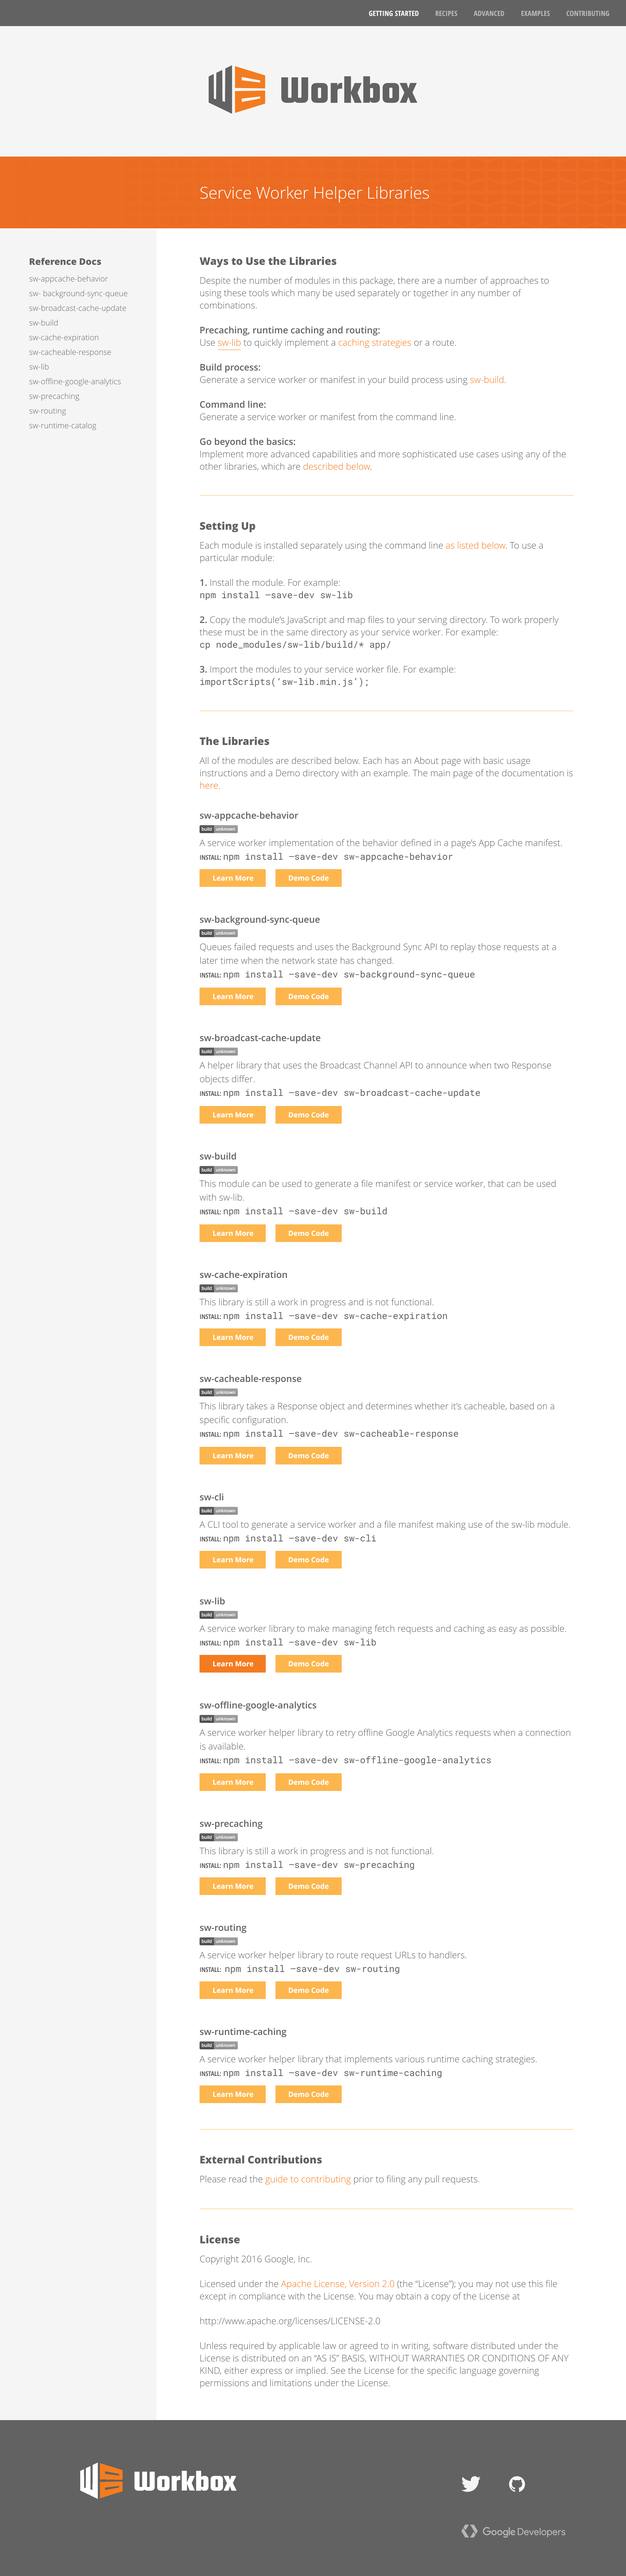
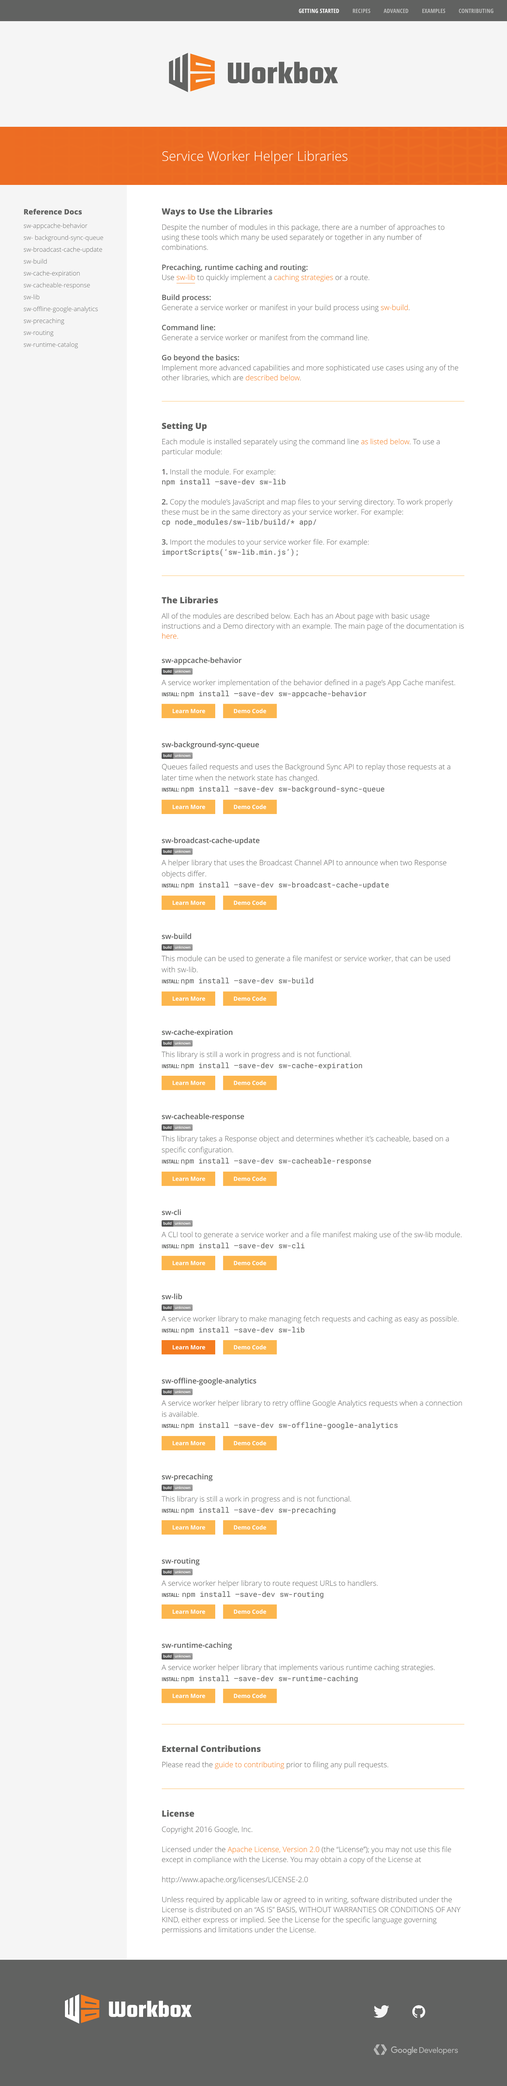
Making a little more mobile friendly

diff --git a/src/examples/index.html b/src/examples/index.html
@@ -16,7 +16,7 @@
   <section class="nav-content">
     <div class="menu-btn-wrapper">
       <button class="svg-btn menu-btn js-menu-btn">
-        <svg height="24" viewBox="0 0 24 24" width="24" xmlns="http://www.w3.org/2000/svg">
+        <svg height="30" viewBox="0 0 24 24" width="30" xmlns="http://www.w3.org/2000/svg">
             <path d="M0 0h24v24H0z" fill="none"/>
             <path d="M3 18h18v-2H3v2zm0-5h18v-2H3v2zm0-7v2h18V6H3z"/>
         </svg>
@@ -98,14 +98,23 @@
   </section>
 
   <footer>
-    <h1 class="footer__workbox-logo">Workbox</h1>
-    <div class="footer__project-logos">
-      <a href="https://github.com/GoogleChrome/sw-helpers" class="svg-btn footer__github-btn" role="button" title="GitHub">
-        <img src="../images/github-logo.min.svg" alt="Github Logo" />
-      </a>
-      <a class="google-dev-logo" href="https://developers.google.com/web/">
-        <img src="../images/google-dev-logo.min.svg" alt="Google Developers Logo" />
-      </a>
+    <a href="https://GoogleChrome.github.io/workbox" class="footer__btn footer__workbox-btn" role="button" title="Workbox">
+      <img src="../images/workbox-logo-white.min.svg" alt="Workbox Logo" />
+    </a>
+    <div class="footer__right-logos">
+      <div class="footer__logo-row">
+        <a href="https://twitter.com/ChromiumDev" class="footer__btn footer__twitter-btn" role="button" title="Twitter">
+          <img src="../images/twitter-logo.min.svg" alt="Twitter Logo" />
+        </a>
+        <a href="https://github.com/GoogleChrome/sw-helpers" class="footer__btn footer__github-btn" role="button" title="GitHub">
+          <img src="../images/github-logo.min.svg" alt="Github Logo" />
+        </a>
+      </div>
+      <div class="footer__logo-row">
+        <a class="google-dev-logo footer__btn" href="https://developers.google.com/web/">
+          <img src="../images/google-dev-logo.min.svg" alt="Google Developers Logo" />
+        </a>
+      </div>
     </div>
   </footer>
 </body>

diff --git a/src/styles/components/navigation.css b/src/styles/components/navigation.css
@@ -3,13 +3,12 @@
   flex-direction: row;
   justify-content: space-between;
   background-color: var(--header-bg);
-  padding: 0 calc(var(--horizontal-spacing) * 5);
 }
 
 .menu-btn {
   background: none;
   border: none;
-  padding: 8px;
+  padding: calc(var(--vertical-spacing) * 2.5);
 }
 
 .menu-btn svg {
@@ -26,6 +25,13 @@
   z-index: var(--z-index-navdrawer);
   will-change: transform;
   transform: translateX(-240px);
+  transition: transform 0.4s ease-in-out;
+}
+
+.nav-content nav.is-open {
+  transform: translateX(0);
+  pointer-events: all;
+  touch-action: none;
 }
 
 .nav-content ul {
@@ -38,7 +44,7 @@
 
 .nav-content a {
   display: block;
-  padding: calc(var(--vertical-spacing) * 3.5) calc(var(--horizontal-spacing) * 2.5);
+  padding: calc(var(--vertical-spacing) * 2.5) calc(var(--horizontal-spacing) * 2);
   text-transform: uppercase;
   font-size: var(--navigation-font-size);
   font-weight: 700;
@@ -46,7 +52,7 @@
   text-decoration: none;
 }
 
-.nav-backdrop.is-visible {
+.nav-backdrop {
   position: fixed;
   width: 100%;
   height: 100%;
@@ -56,15 +62,23 @@
   z-index: var(--z-index-backdrop);
   opacity: 0;
   will-change: opacity;
+  pointer-events: none;
+  transition: opacity 0.4s ease-in-out;
 }
 
-.nav-backdrop.is-visible {
+.nav-backdrop.is-open {
   opacity: 1;
+  pointer-events: all;
+  touch-action: none;
 }
 
 @media (min-width: 700px) {
   .menu-btn {
     display: none;
+  }
+
+  .nav-content {
+    padding: 0 calc(var(--horizontal-spacing) * 4);
   }
 
   .nav-content nav {

diff --git a/src/styles/components/footer.css b/src/styles/components/footer.css
@@ -1,14 +1,20 @@
 footer {
+  display: flex;
+  flex-direction: column;
   background-color: var(--dark-grey);
-  padding: 40px;
+  padding: calc(var(--vertical-spacing) * 8) calc(var(--horizontal-spacing) * 6);
 }
 
-.footer__workbox-logo {
-  height: calc(var(--horizontal-spacing) * 10);
-  text-indent: 99999999px;
-  overflow: hidden;
-  background-image: url('../../images/workbox-logo-white.min.svg');
-  background-repeat: no-repeat;
+.footer__logo-row {
+  display: flex;
+  flex-direction: row;
+  justify-content: space-around;
+
+  margin-bottom: calc(var(--vertical-spacing) * 8);
+}
+
+.footer__logo-row:last-child {
+  margin-bottom: 0;
 }
 
 .footer__project-logos a {
@@ -19,4 +25,33 @@ footer {
 
 .footer__project-logos a img {
   height: 42px;
+}
+
+.footer__btn {
+  display: inline-block;
+}
+
+.footer__workbox-btn {
+  text-align: center;
+  margin-bottom: calc(var(--vertical-spacing) * 8);
+}
+
+.footer__workbox-btn img {
+  max-height: calc(var(--vertical-spacing) * 7);
+}
+
+@media (min-width: 700px) {
+  footer {
+    flex-direction: row;
+    justify-content: space-between;
+    padding: calc(var(--vertical-spacing) * 12) calc(var(--horizontal-spacing) * 8);
+  }
+
+  .footer__right-logos {
+    padding-top: calc(var(--vertical-spacing) * 3);
+  }
+
+  .footer__workbox-btn img {
+    max-height: calc(var(--vertical-spacing) * 12);
+  }
 }

diff --git a/src/styles/main.css b/src/styles/main.css
@@ -51,7 +51,7 @@ html, body {
 
 body {
   font-family: 'Open Sans', sans-serif;
-  font-size: var(--base-font-size);
+  font-size: var(--base-font-size-mobile);
   font-weight: 300;
 }
 
@@ -71,19 +71,20 @@ h1, h2, h3, h4, h5, h6 {
 }
 
 h1 {
-  font-size: var(--h1-font-size);
-  font-weight: 700;
+  font-size: var(--h1-font-size-mobile);
   letter-spacing: var(--h1-letter-spacing);
-  margin-bottom: calc(var(--vertical-spacing) * 4);
+  margin-bottom: calc(var(--vertical-spacing) * 3);
+  font-weight: 700;
 }
 
 h2 {
-  font-size: var(--h2-font-size);
+  font-size: var(--h2-font-size-mobile);
+  letter-spacing: var(--h2-letter-spacing);
   font-weight: 600;
 }
 
 p {
-  margin: 0 0 calc(var(--vertical-spacing) * 5) 0;
+  margin: 0 0 calc(var(--vertical-spacing) * 4) 0;
 }
 
 a {
@@ -98,4 +99,18 @@ hr {
   background-color: var(--hr-color);
   margin: calc(var(--vertical-spacing) * 9) 0;
   padding: 0;
+}
+
+@media (min-width: 700px) {
+  body {
+    font-size: var(--base-font-size-desktop);
+  }
+
+  h1 {
+    font-size: var(--h1-font-size-desktop);
+  }
+
+  h2 {
+    font-size: var(--h2-font-size-desktop);
+  }
 }

diff --git a/src/styles/components/page-header.css b/src/styles/components/page-header.css
@@ -6,21 +6,28 @@
   color: var(--dark-grey);
 }
 
+.page-header h1 {
+  margin: 0;
+  text-indent: 9999999px;
+  overflow: hidden;
+}
+
 .page-header__inner-section {
   display: flex;
   justify-content: center;
   align-items: center;
   flex-direction: row;
   width: 80%;
-  height: calc(var(--vertical-spacing) * 18);
-  margin: calc(var(--vertical-spacing) * 15) calc(var(--horizontal-spacing) * 1);
+  height: calc(var(--vertical-spacing) * 8);
+  margin: calc(var(--vertical-spacing) * 12) calc(var(--horizontal-spacing) * 4);
   background-image: url('../../images/workbox-logo-grey.min.svg');
   background-repeat: no-repeat;
   background-position: center;
 }
 
-.page-header h1 {
-  margin: 0;
-  text-indent: 9999999px;
-  overflow: hidden;
+@media (min-width: 700px) {
+  .page-header__inner-section {
+    height: calc(var(--vertical-spacing) * 15);
+    margin: calc(var(--vertical-spacing) * 12) calc(var(--horizontal-spacing) * 4);
+  }
 }

diff --git a/src/styles/components/callout.css b/src/styles/components/callout.css
@@ -4,7 +4,7 @@
   background-image: url("../../images/callout-pattern.min.svg");
   background-size:cover;
   text-align: center;
-  padding: calc(var(--vertical-spacing) * 9) calc(var(--horizontal-spacing) * 4);
+  padding: calc(var(--vertical-spacing) * 4) calc(var(--horizontal-spacing) * 2);
   color: white;
 }
 
@@ -17,8 +17,18 @@
 }
 
 .callout h1 {
-  font-size: var(--callout-h1-font-size);
+  font-size: var(--callout-h1-font-size-mobile);
   font-weight: 300;
   margin: 0;
   color: white;
+}
+
+@media (min-width: 700px) {
+  .callout {
+    padding: calc(var(--vertical-spacing) * 9) calc(var(--horizontal-spacing) * 4);
+  }
+
+  .callout h1 {
+    font-size: var(--callout-h1-font-size-desktop);
+  }
 }

diff --git a/src/styles/variables/dimens.css b/src/styles/variables/dimens.css
@@ -2,13 +2,18 @@
   --vertical-spacing: 8px;
   --horizontal-spacing: 10px;
 
-  --base-font-size: 28px;
-  --h1-font-size: 32px;
+  --base-font-size-mobile: 20px;
+  --base-font-size-desktop: 22px;
+  --h1-font-size-mobile: 24px;
+  --h1-font-size-desktop: 28px;
   --h1-letter-spacing: 0.7px;
-  --h2-font-size: 28px;
+  --h2-font-size-mobile: 20px;
+  --h2-font-size-desktop: 24px;
+  --h2-letter-spacing: 0.7px;
 
-  --navigation-font-size: 18px;
-  --callout-h1-font-size: 48px;
+  --navigation-font-size: 16px;
+  --callout-h1-font-size-mobile: 34px;
+  --callout-h1-font-size-desktop: 42px;
 
   --main-content-max-width: 1140px;
 }
